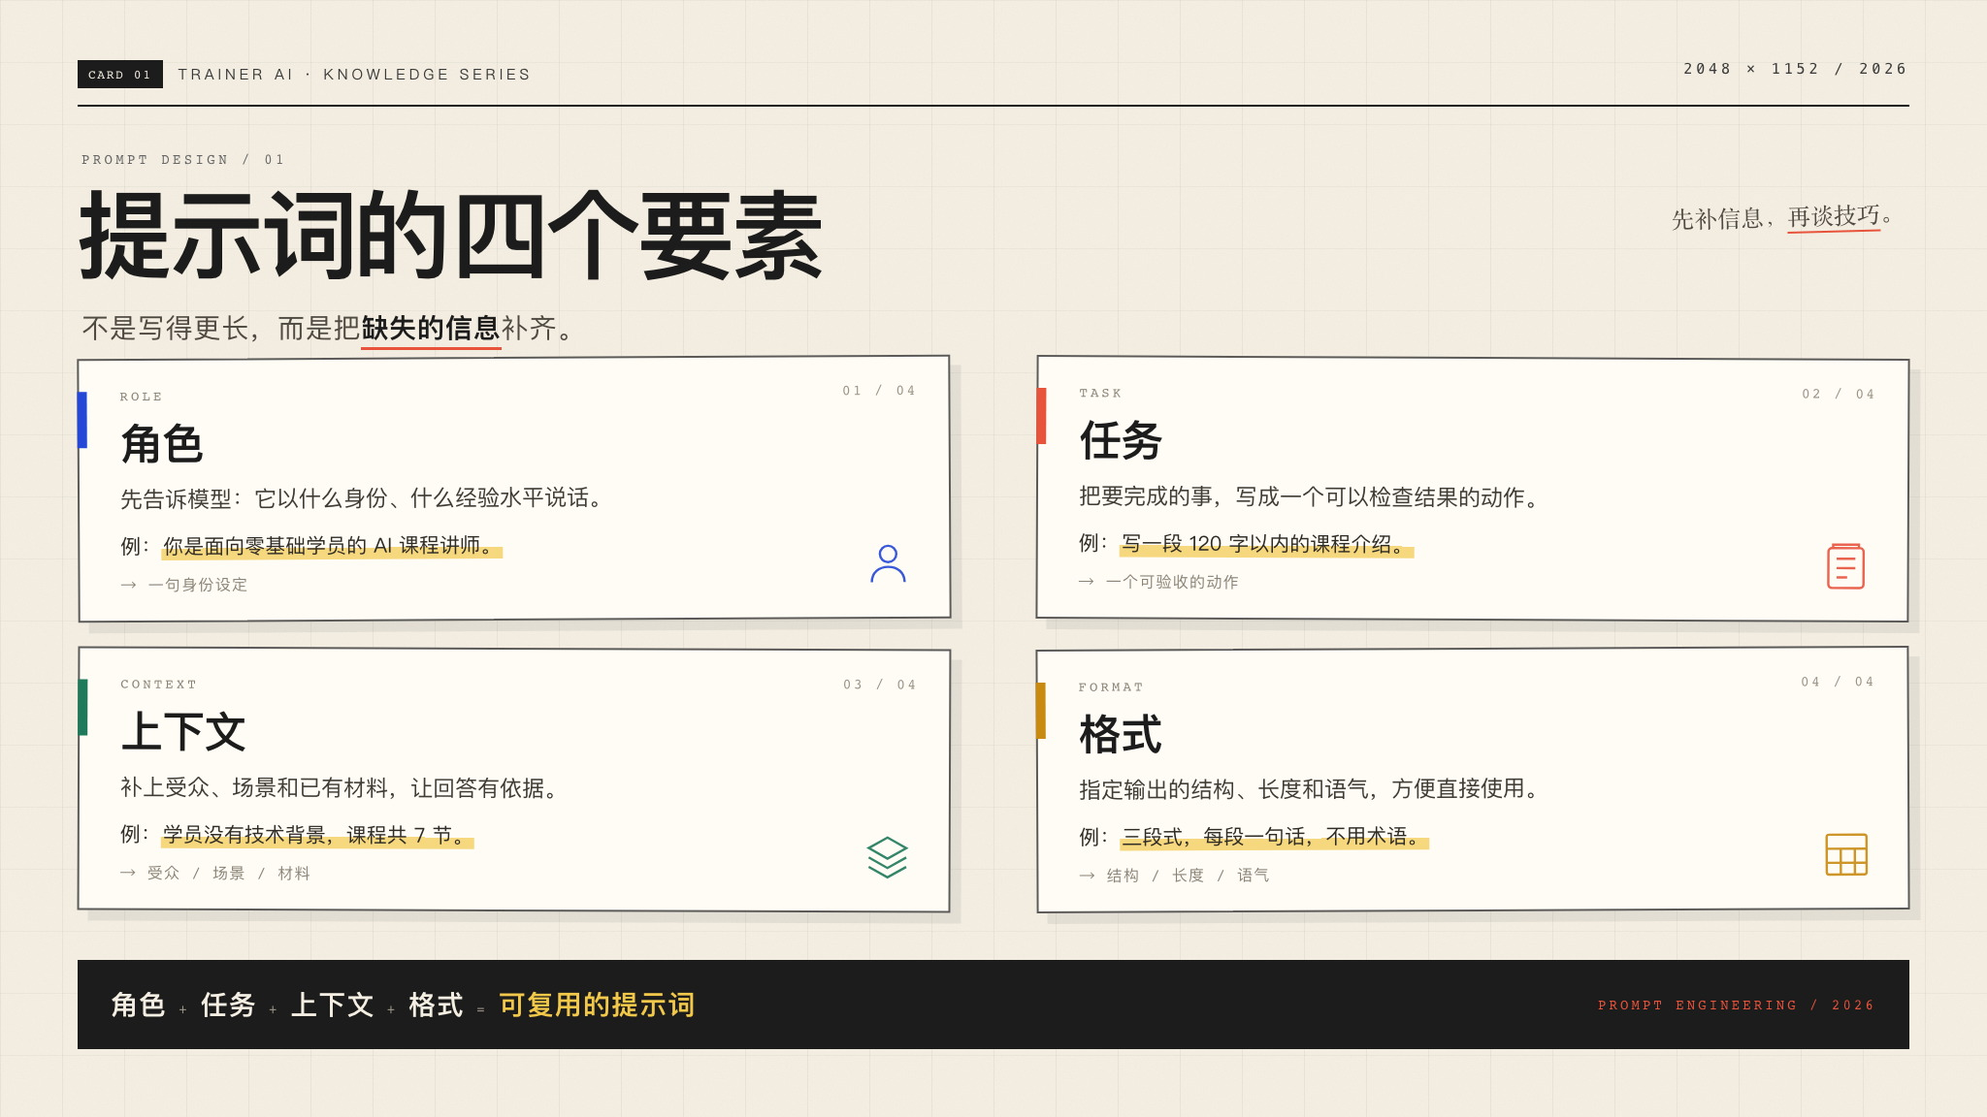
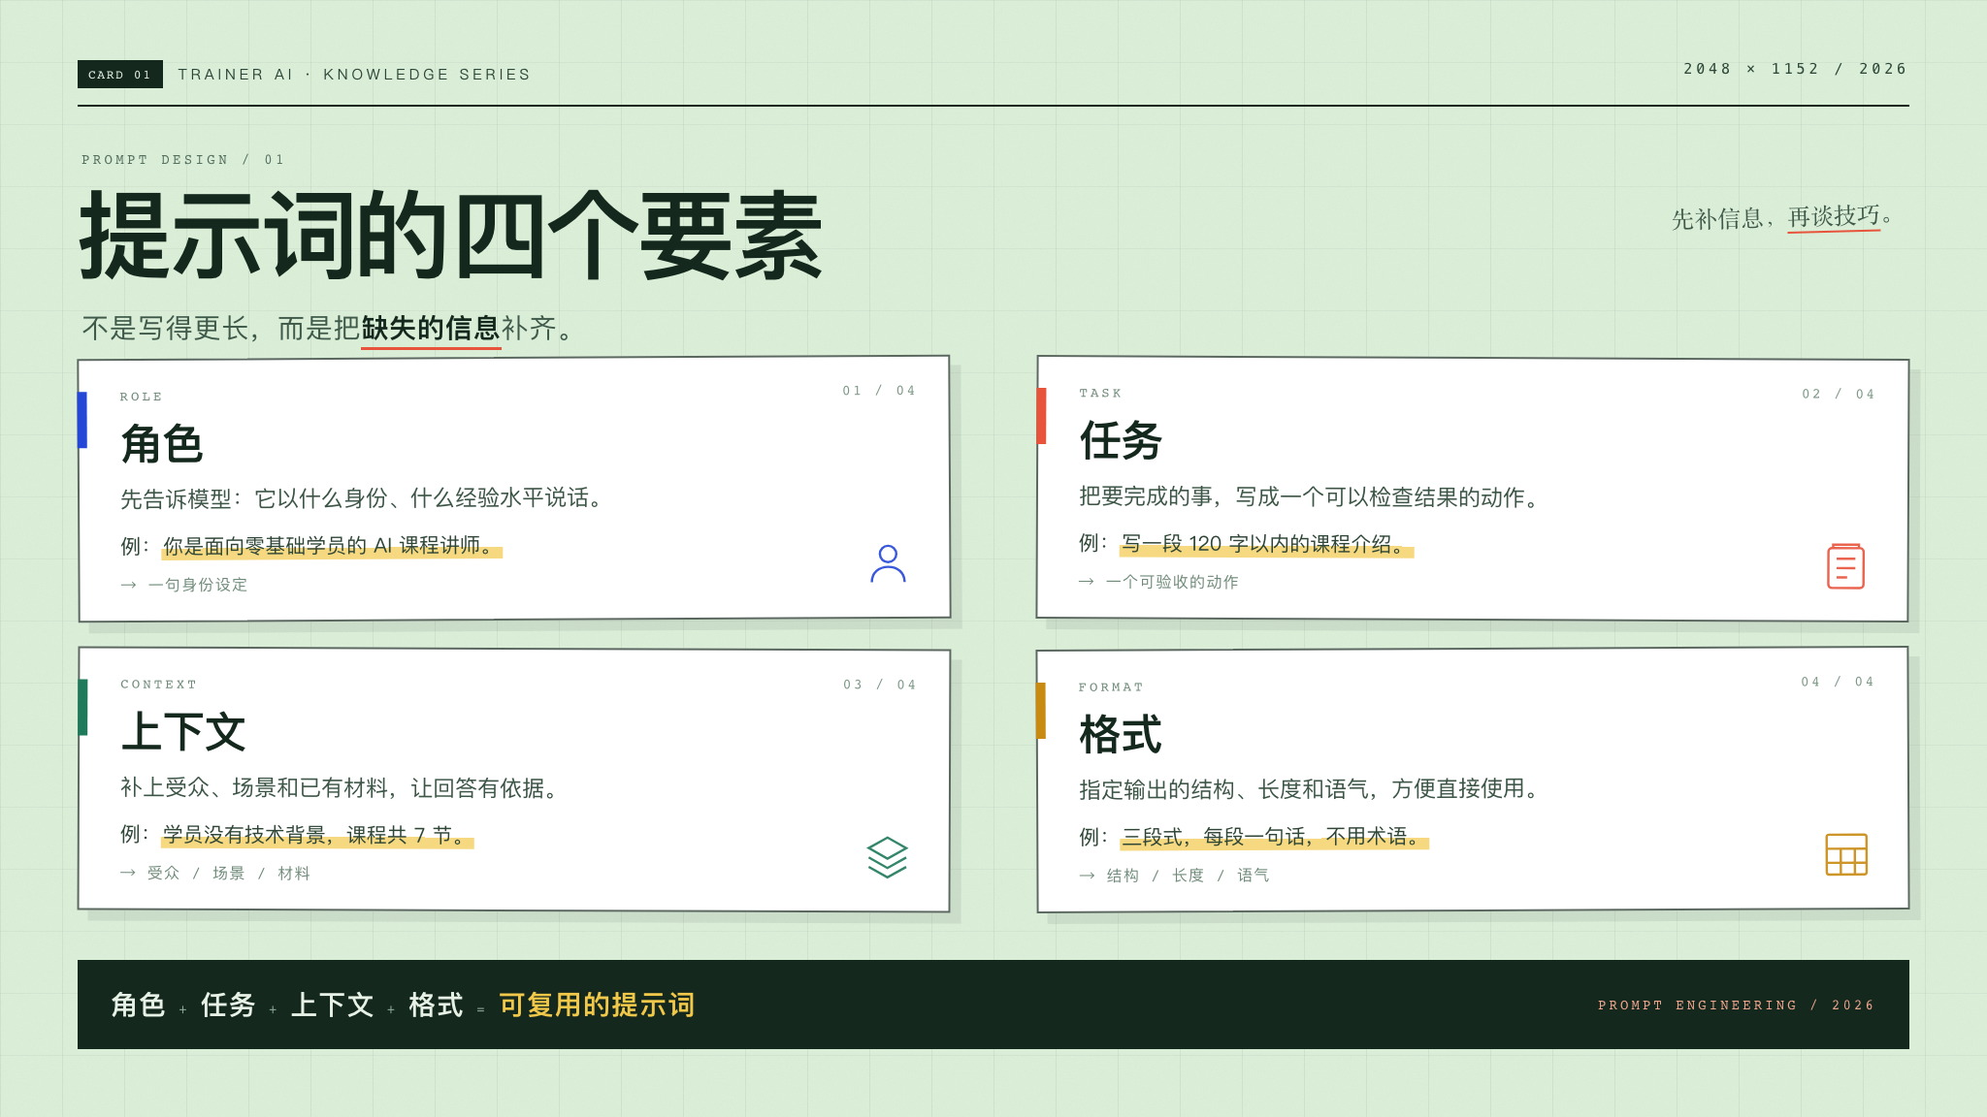
fix(agent-showcase): 重调案例底色，去掉黑底与米色重复
按反馈把 6 件 creative-studio 素材改为薄荷、靛紫、冰蓝、赤陶、深青、淡紫六套底色：RAG 卡去掉黑底，信息图与笔记卡不再同为米色，结构图分别用深青与淡紫。海报、漫画与三套 PPT 不动；同步文案/README 与总量口径。

diff --git a/frontend/src/core/agents/showcase.ts b/frontend/src/core/agents/showcase.ts
@@ -678,8 +678,8 @@ const showcases: Record<ShowcaseAgentId, ShowcaseAgent> = {
     ),
     badge: text("产物已核验", "Verified output"),
     note: text(
-      "10 个案例覆盖 5 类作品，每类 2 种风格；海报、知识卡与信息图由精确排版生成，漫画由生图模型生成，结构图由 SVG 绘制。",
-      "Ten designs across five categories and two styles each, using precise layout for posters, cards, and infographics, image generation for comics, and SVG for diagrams.",
+      "10 个案例覆盖 5 类作品，每类 2 种风格，使用薄荷、靛紫、冰蓝、赤陶、深青与淡紫等独立底色；海报、知识卡与信息图由精确排版生成，漫画由生图模型生成，结构图由 SVG 绘制。",
+      "Ten designs across five categories and two styles each, with distinct mint, indigo, ice-blue, terracotta, petrol, and lavender grounds; precise layout for posters, cards, and infographics, image generation for comics, and SVG for diagrams.",
     ),
     steps: [
       {
@@ -748,14 +748,14 @@ const showcases: Record<ShowcaseAgentId, ShowcaseAgent> = {
         kind: "visual",
         category: "card",
         title: text("RAG：让模型先查再答", "RAG: retrieve before answering"),
-        tag: text("知识卡片 · 霓虹玻璃拟态", "Knowledge card · Neon glass"),
+        tag: text("知识卡片 · 靛紫玻璃拟态", "Knowledge card · Indigo glass"),
         description: text(
-          "深色玻璃卡片、荧光绿与青色高亮，把检索、增强、生成三步讲成一条链路。",
-          "A dark glass card with lime and cyan highlights, tracing retrieval, augmentation, and generation.",
+          "靛紫渐变玻璃卡片、荧光绿与青色高亮，把检索、增强、生成三步讲成一条链路。",
+          "An indigo gradient glass card with lime and cyan highlights, tracing retrieval, augmentation, and generation.",
         ),
-        styleLabel: text("玻璃拟态", "Glassmorphism"),
+        styleLabel: text("靛紫玻璃拟态", "Indigo glass"),
         prompt:
-          "[模式: 视觉创作]\n请把「RAG：让模型先查再答」做成一张 16:9 知识卡片，三步：检索、增强、生成；深色玻璃拟态风格，荧光绿与青色高亮，中文要准确。",
+          "[模式: 视觉创作]\n请把「RAG：让模型先查再答」做成一张 16:9 知识卡片，三步：检索、增强、生成；靛紫渐变玻璃拟态风格，荧光绿与青色高亮，中文要准确。",
         preview: asset("visual/previews/card-rag.webp"),
         original: asset("visual/originals/card-rag.jpg"),
         downloadName: "visual-card-rag.jpg",
@@ -767,14 +767,14 @@ const showcases: Record<ShowcaseAgentId, ShowcaseAgent> = {
         kind: "visual",
         category: "card",
         title: text("提示词的四个要素", "The four elements of a prompt"),
-        tag: text("知识卡片 · 编辑笔记风", "Knowledge card · Editorial notes"),
+        tag: text("知识卡片 · 薄荷笔记风", "Knowledge card · Mint notes"),
         description: text(
-          "纸感卡片、荧光笔高亮，四色区分角色、任务、上下文与格式。",
-          "Paper cards and highlighter, with four colors for role, task, context, and format.",
+          "薄荷纸感、白色卡片与荧光笔高亮，四色区分角色、任务、上下文与格式。",
+          "Mint paper, white cards, and highlighter, with four colors for role, task, context, and format.",
         ),
-        styleLabel: text("编辑笔记风", "Editorial notes"),
+        styleLabel: text("薄荷笔记风", "Mint notes"),
         prompt:
-          "[模式: 视觉创作]\n请把「提示词的四个要素：角色、任务、上下文、格式」做成一张 16:9 编辑笔记风知识卡片，纸感卡片、黄色荧光笔高亮，蓝、珊瑚、绿、琥珀四色标注。",
+          "[模式: 视觉创作]\n请把「提示词的四个要素：角色、任务、上下文、格式」做成一张 16:9 薄荷笔记风知识卡片，薄荷纸底、白色卡片、黄色荧光笔高亮，蓝、珊瑚、绿、琥珀四色标注。",
         preview: asset("visual/previews/card-prompt.webp"),
         original: asset("visual/originals/card-prompt.jpg"),
         downloadName: "visual-card-prompt.jpg",
@@ -824,14 +824,14 @@ const showcases: Record<ShowcaseAgentId, ShowcaseAgent> = {
         kind: "visual",
         category: "infographic",
         title: text("大模型训练全流程", "The complete LLM training pipeline"),
-        tag: text("信息图 · 编辑数据风", "Infographic · Editorial data"),
+        tag: text("信息图 · 冰蓝编辑风", "Infographic · Ice-blue editorial"),
         description: text(
           "数据清洗、预训练、监督微调、对齐、推理部署，五个阶段一张图看完。",
           "Five stages from data cleaning through deployment in one infographic.",
         ),
-        styleLabel: text("编辑数据风", "Editorial data"),
+        styleLabel: text("冰蓝编辑风", "Ice-blue editorial"),
         prompt:
-          "[模式: 视觉创作]\n请把「大模型训练全流程」做成一张 16:9 信息图，五个阶段：数据清洗、预训练、监督微调、对齐、推理部署；编辑数据风，五种颜色区分阶段，不要编造数字指标。",
+          "[模式: 视觉创作]\n请把「大模型训练全流程」做成一张 16:9 信息图，五个阶段：数据清洗、预训练、监督微调、对齐、推理部署；冰蓝底色、五种颜色区分阶段，不要编造数字指标。",
         preview: asset("visual/previews/infographic-training.webp"),
         original: asset("visual/originals/infographic-training.jpg"),
         downloadName: "visual-infographic-training.jpg",
@@ -846,14 +846,14 @@ const showcases: Record<ShowcaseAgentId, ShowcaseAgent> = {
           "企业 AI Agent 落地路线图",
           "Enterprise AI agent adoption roadmap",
         ),
-        tag: text("信息图 · 暖调编辑风", "Infographic · Warm editorial"),
+        tag: text("信息图 · 赤陶路线图", "Infographic · Terracotta roadmap"),
         description: text(
           "评估、试点、扩展、治理四个阶段，用赤陶、森林绿与赭黄讲清落地路径。",
           "Assessment, pilots, scaling, and governance in terracotta, forest green, and ochre.",
         ),
-        styleLabel: text("暖调编辑风", "Warm editorial"),
+        styleLabel: text("赤陶编辑风", "Terracotta editorial"),
         prompt:
-          "[模式: 视觉创作]\n请把「企业 AI Agent 落地路线图」做成一张 16:9 信息图，四个阶段：评估、试点、扩展、治理；暖调编辑风格，赤陶、森林绿与赭黄，不要编造数字指标。",
+          "[模式: 视觉创作]\n请把「企业 AI Agent 落地路线图」做成一张 16:9 信息图，四个阶段：评估、试点、扩展、治理；赤陶底色、奶油色卡片，赤陶、森林绿与赭黄区分阶段，不要编造数字指标。",
         preview: asset("visual/previews/infographic-roadmap.webp"),
         original: asset("visual/originals/infographic-roadmap.jpg"),
         downloadName: "visual-infographic-roadmap.jpg",
@@ -866,16 +866,16 @@ const showcases: Record<ShowcaseAgentId, ShowcaseAgent> = {
         category: "diagram",
         title: text("AI Agent 技术栈", "The AI agent technology stack"),
         tag: text(
-          "知识结构图 · 暗色结构图",
-          "Knowledge diagram · Dark structure",
+          "知识结构图 · 深青结构图",
+          "Knowledge diagram · Petrol structure",
         ),
         description: text(
           "按应用层、编排层、模型层、基础设施四层组织，适合课程导论和方案讲解。",
           "Four layers from applications to infrastructure for introductions and solution reviews.",
         ),
-        styleLabel: text("暗色结构图", "Dark diagram"),
+        styleLabel: text("深青结构图", "Petrol diagram"),
         prompt:
-          "[模式: 结构图]\n请生成一张「AI Agent 技术栈」知识结构图，按应用层、编排层、模型层、基础设施四层组织，标注每层的关键能力，输出 SVG。",
+          "[模式: 结构图]\n请生成一张「AI Agent 技术栈」知识结构图，深青底色，按应用层、编排层、模型层、基础设施四层组织，标注每层的关键能力，输出 SVG。",
         preview: asset("visual/previews/diagram-agent-stack.webp"),
         original: asset("visual/diagrams/diagram-agent-stack.svg"),
         vector: asset("visual/diagrams/diagram-agent-stack.svg"),
@@ -889,16 +889,16 @@ const showcases: Record<ShowcaseAgentId, ShowcaseAgent> = {
         category: "diagram",
         title: text("RAG 系统架构", "RAG system architecture"),
         tag: text(
-          "知识结构图 · 浅色蓝图风",
-          "Knowledge diagram · Light blueprint",
+          "知识结构图 · 淡紫蓝图",
+          "Knowledge diagram · Lavender blueprint",
         ),
         description: text(
-          "文档源、解析切分、向量库、检索器、生成模型和评估层，一张图理清 RAG 链路。",
-          "Sources, parsing, vector storage, retrieval, generation, and evaluation in one diagram.",
+          "文档源、解析切分、向量库、检索器、生成模型与评估层，一张图理清链路。",
+          "Sources, parsing, vector store, retrieval, generation, and evaluation in one diagram.",
         ),
-        styleLabel: text("浅色蓝图风", "Light blueprint"),
+        styleLabel: text("淡紫蓝图", "Lavender blueprint"),
         prompt:
-          "[模式: 结构图]\n请生成一张「RAG 系统架构」知识结构图，包含文档源、解析与切分、向量库、检索器、生成模型、答案与引用，以及评估与观测层；输出 SVG。",
+          "[模式: 结构图]\n请生成一张「RAG 系统架构」知识结构图，淡紫蓝图底色，包含文档源、解析与切分、向量库、检索器、生成模型、答案与引用，以及评估与观测层；输出 SVG。",
         preview: asset("visual/previews/diagram-rag-architecture.webp"),
         original: asset("visual/diagrams/diagram-rag-architecture.svg"),
         vector: asset("visual/diagrams/diagram-rag-architecture.svg"),

diff --git a/docs/plans/2026-11-17-agent-showcase-color-refresh-plan.md b/docs/plans/2026-11-17-agent-showcase-color-refresh-plan.md
@@ -1,0 +1,49 @@
+# Agent Showcase 案例配色重制计划
+
+> **状态**：已执行（2026-11-17；变更日志：`docs/changelog/changelog-2026-11-17-agent-showcase-color-refresh.md`）。
+> **TL;DR**：按用户“黑底很差、米色背景重复、看不出区别”的反馈，只重做 creative-studio 的 6 件素材底色（薄荷、靛紫、冰蓝、赤陶、深青、淡紫），保留两张海报与两页漫画；PPT 三套与页面骨架不动。
+
+## 一、问题与决策
+
+用户 2026-11-17 第二轮反馈（截图圈出 4 件）：
+
+- RAG 知识卡的黑色背景“效果很差”。
+- 训练信息图与路线图/笔记卡“背景颜色重复”，放在一起“看不出区别”。
+- 需要“其他更好的色彩”。
+
+问题不是构图，而是**底色带宽太窄**：8 件重制素材里 6 件是米色/奶油纸，2 件是近黑，导致案例墙整体发灰、发闷。本轮只换底色体系，不改内容结构：
+
+| 素材 | 原底色 | 新底色 | 目的 |
+|---|---|---|---|
+| card-prompt | 米色纸 | 薄荷纸 + 白卡 | 与赤陶路线图彻底区分 |
+| card-rag | 近黑 | 靛紫渐变 + 玻璃卡 | 去掉黑底，保留深色玻璃质感 |
+| infographic-training | 米色 | 冰蓝渐变 + 白卡 | 冷色数据图，与暖色路线图分开 |
+| infographic-roadmap | 米色 | 赤陶底 + 奶油卡 | 形成一块明确的暖色块 |
+| diagram-agent-stack | 近黑蓝 | 深青（petrol）+ 四色层 | 深色但不发黑，保留技术结构感 |
+| diagram-rag-architecture | 米色 | 淡紫蓝图 + 白盒 | 浅色技术图，与冰蓝信息图区分 |
+
+两张海报（深空、瑞士网格）和两页漫画（日系、水墨）保持不动，避免把已经成立的方向一起推翻。
+
+## 二、改动清单
+
+- [x] 重绘 6 件素材的底色/卡片/文字层级，保持 2048×1152（结构图 1600×1000 SVG）。
+- [x] 更新 `showcase.ts` 的风格标签、描述、prompt 与 agent note（薄荷/靛紫/冰蓝/赤陶/深青/淡紫）。
+- [x] 更新素材 README 的底色说明与总量（15,677,880 bytes）。
+- [x] 定向 vitest、全量 vitest、目标 E2E、`pnpm check`、docs 门禁。
+- [x] 本地 production build 预览截图确认案例墙不再“黑+米”重复。
+
+## 三、验收
+
+- `cd frontend && pnpm check` → 0 errors。
+- `pnpm exec vitest run --project node tests/unit/core/agents/showcase.test.ts` → 7 passed。
+- `pnpm exec vitest run --project dom tests/unit/components/workspace/agent-showcase.dom.test.tsx` → 23 passed。
+- `pnpm test` → 266 files / 1754 tests passed。
+- `pnpm exec playwright test tests/e2e/agent-new-chat-guide.spec.ts` → 41 passed。
+- `python3 scripts/check_docs_convention.py` → 全过；素材总量 ≤20,000,000 bytes。
+- 本地预览：creative-studio 案例墙 10 件加载，无 console error / 404。
+
+## 四、说明
+
+- 只重做底色，不重做两张海报和两页漫画；PPT 三套 deck 不在本批范围。
+- 360 生图接口仍为 401，未新增生图；本轮全部用精确排版/SVG 完成。
+- 一次性画布脚本不进入仓库；素材来源与总量记录在 README。

diff --git a/frontend/public/agent-showcase/README.md b/frontend/public/agent-showcase/README.md
@@ -5,16 +5,16 @@
 ## 来源与授权
 
 - 课程视频：项目内为 ListenHub Demo 生成的 Remotion 成片与 WebP 海报，2026-11-16 生成。
-- PPT：项目内生成的三份原生可编辑 PPTX 及逐页 WebP 预览，2026-11-17 重做版式与字体层级。`template-360-ai-v4.pptx` 基于用户提供的 360 模板改造，保留品牌封面、页眉标识与绿色视觉语言；用户已于 2026-11-17 明确授权随本项目分发。
+- PPT：项目内生成的三份原生可编辑 PPTX 及逐页 WebP 预览，2026-11-17 重做版式与字体层级（本轮未再改 PPT 素材）。`template-360-ai-v4.pptx` 基于用户提供的 360 模板改造，保留品牌封面、页眉标识与绿色视觉语言；用户已于 2026-11-17 明确授权随本项目分发。
 - 播客：项目内生成的四期节目，使用豆包 TTS 男声/女声，2026-11-16 生成；无声音克隆、无背景音乐。
-- 视觉：2026-11-17 重做竖版海报、知识卡与信息图（精确排版，1152/2048 宽画布导出），重绘两张 SVG 结构图；两页漫画沿用 2026-11-16 的生图产物。
+- 视觉：2026-11-17 重做竖版海报、知识卡与信息图（精确排版，1152/2048 宽画布导出），重绘两张 SVG 结构图；两页漫画沿用 2026-11-16 的生图产物。2026-11-17 第二轮按用户反馈调整底色：薄荷笔记卡、靛紫玻璃卡、冰蓝信息图、赤陶路线图、深青结构图、淡紫蓝图，避免黑底与米色重复。
 - 人物：项目内为 ListenHub Demo 生成的四张人物图，2026-11-16 生成。本批离线把与边缘连通的近白背景替换为浅靛渐变，并裁出透明圆角；运行时不抠图。
 
 这些素材仅用于本项目的产品案例展示、测试与文档，不包含密钥或用户私密数据。外部调研链接仅作为节目与视频的来源说明，网页内容不随素材再分发。
 
 ## 文件与压缩口径
 
-- 本目录共 54 个案例媒体 + 4 个人物，实际媒体总量 **15,615,743 bytes（15.62 MB，14.89 MiB）**，58 个文件；`README.md` 不计入媒体清单。未迁移 `visual/test-*`、旧版 `poster-agent-dark.jpg`、结构图 PNG、`ppt-art/`、Remotion 工程或 `bundle.html`。
+- 本目录共 54 个案例媒体 + 4 个人物，实际媒体总量 **15,677,880 bytes（15.68 MB，14.95 MiB）**，58 个文件；`README.md` 不计入媒体清单。未迁移 `visual/test-*`、旧版 `poster-agent-dark.jpg`、结构图 PNG、`ppt-art/`、Remotion 工程或 `bundle.html`。
 - 视频保留来源 H.264/AAC MP4，1280×720；海报与预览使用 WebP。
 - 视觉预览使用 WebP；原图 JPG 与结构图 SVG 仅在用户打开或下载时加载。
 - PPTX 分别为 236,985 / 437,726 / 467,022 bytes，按十进制 KB/MB 展示；逐页预览为 1920×1080 WebP。

diff --git a/docs/changelog/changelog-2026-11-17-agent-showcase-color-refresh.md b/docs/changelog/changelog-2026-11-17-agent-showcase-color-refresh.md
@@ -1,0 +1,42 @@
+# Agent Showcase 案例配色重制 changelog（2026-11-17）
+
+> **TL;DR**：按“黑底很差、米色背景重复、看不出区别”的反馈，重做 6 件 creative-studio 素材的底色：薄荷笔记卡、靛紫玻璃卡、冰蓝信息图、赤陶路线图、深青结构图、淡紫蓝图；海报与漫画不动，PPT 三套不动；总量 15.68 MB，定向测试与 E2E 通过。
+
+## 一、背景
+
+上一版把 8 件素材统一成“米色纸 + 近黑”两条底色带，案例墙出现两个问题：
+
+- RAG 知识卡的近黑底在浅色页面里过重，用户直说“黑色背景效果很差”。
+- prompt 卡、训练信息图、路线图都是米色底，并排时“背景颜色重复、看不出区别”。
+
+本轮只调整底色与卡片层级，保留已经成立的海报/漫画和版面结构。
+
+## 二、改动
+
+| 素材 | 改法 |
+|---|---|
+| card-prompt | 米色 → 薄荷纸 `#dcefd9`；四张卡改纯白、深绿描边，四色索引不变 |
+| card-rag | 近黑 → 靛紫渐变（`#171049 → #4a2470`）；玻璃卡提亮，终端改深靛紫并恢复 TRACE 条 |
+| infographic-training | 米色 → 冰蓝渐变（`#dcecfb → #cfe2f7`）；白卡 + 五色阶段，深蓝底栏 |
+| infographic-roadmap | 米色 → 赤陶底 `#b85234`；卡片改奶油色，保留赤陶/森林绿/赭黄阶段色 |
+| diagram-agent-stack | 近黑蓝 → 深青 `#04262b`；四层填充提亮（紫/青/琥珀/黄绿） |
+| diagram-rag-architecture | 米色 → 淡紫蓝图 `#e7e2f8`；白盒、靛蓝连线、紫灰评估带 |
+
+同时更新 `showcase.ts` 的 tag/style/description/prompt/agent note 与素材 README。
+
+## 验收记录
+
+- `cd frontend && pnpm check` → `121 problems (0 errors, 121 warnings)`，Prettier 全过
+- `pnpm exec vitest run --project node tests/unit/core/agents/showcase.test.ts` → `7 passed`
+- `pnpm exec vitest run --project dom tests/unit/components/workspace/agent-showcase.dom.test.tsx` → `23 passed`
+- `pnpm test` → 266 files / 1754 tests passed
+- `pnpm exec playwright test tests/e2e/agent-new-chat-guide.spec.ts` → `41 passed (53.5s)`
+- `python3 scripts/check_docs_convention.py` → `OK 仓库治理约定全过`
+- 素材总量 `15,677,880 bytes`（15.68 MB，<20 MB 预算）；58 个文件不变
+- 本地 production build 预览（1440 宽）→ 10 件案例加载，无 console error / 404
+
+## 三、说明
+
+- 两张海报、两页漫画、三套 PPT 均未改动。
+- 360 生图接口仍返回 401，本轮没有新增生图；全部为精确排版/SVG 重着色。
+- 一次性画布脚本不进入仓库；素材来源、底色与压缩口径见 `frontend/public/agent-showcase/README.md`。
